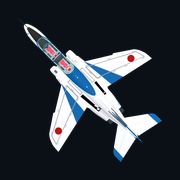
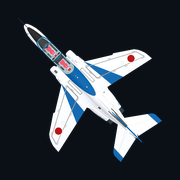
図版を高解像度で再描画: 両面描画＋法線再計算で尾翼の欠けと黒い陰影を解消、減色をやめ WebP で保存

diff --git a/engine.js b/engine.js
@@ -265,7 +265,7 @@ ${body}<rect x="0.5" y="0.5" width="359" height="249" fill="none" stroke="var(--
     return `<svg viewBox="0 0 200 200" width="100%" style="aspect-ratio:1;display:block" role="img" aria-label="上面図">
 <circle cx="100" cy="100" r="96" fill="var(--bezel)"/><circle cx="100" cy="100" r="88" fill="var(--card)" stroke="var(--line2)" stroke-width="1"/>${ticks}
 <g transform="rotate(${phi} 100 100)"><polygon points="100,13 94,27 106,27" fill="var(--accent)"/><text x="100" y="42" text-anchor="middle" font-family="var(--mono)" font-size="14" font-weight="700" fill="var(--accent)">N</text></g>
-<image href="img/t4-top.png" x="28" y="28" width="144" height="144" preserveAspectRatio="xMidYMid meet" transform="rotate(${theta} 100 100)"/></svg>`;
+<image href="img/t4-top.webp" x="28" y="28" width="144" height="144" preserveAspectRatio="xMidYMid meet" transform="rotate(${theta} 100 100)"/></svg>`;
   }
   function figAttitude(bank, pitch, front, sideRight) {
     /* バンク: 後方図は時計回り = 右バンク。前方図は左右が逆に見えるので符号反転。
@@ -281,7 +281,7 @@ ${[112, 128, 150, 178].map((y, i) => `<line x1="0" x2="200" y1="${y}" y2="${y}" 
 
   /* 14 方向の絵（南からの固定視点）と読み方の凡例 */
   function figDir14(d) {
-    return `<div class="d14"><img src="img/bi-${d.id}.png" alt="第三者視点（南から）" style="width:100%;height:auto;display:block">
+    return `<div class="d14"><img src="img/bi-${d.id}.webp" alt="第三者視点（南から）" style="width:100%;height:auto;display:block">
 <svg class="d14legend" viewBox="0 0 76 54" aria-hidden="true"><g stroke="currentColor" stroke-width="1.6" fill="none" stroke-linecap="round" stroke-linejoin="round"><path d="M18 44V14M13 19l5-5 5 5"/><path d="M18 44h36M49 39l5 5-5 5"/><path d="M18 44l14-11M27 33l5-0 0 5"/></g>
 <g font-family="var(--mono)" font-size="10" font-weight="700" fill="currentColor"><text x="18" y="10" text-anchor="middle">上</text><text x="58" y="48">東</text><text x="36" y="30">北</text></g></svg></div>`;
   }

diff --git a/dev/render/render.html b/dev/render/render.html
@@ -45,7 +45,9 @@ let meshes = 0, textured = 0;
 obj.traverse(o => { if (o.isMesh) { meshes++; const ms = Array.isArray(o.material) ? o.material : [o.material]; ms.forEach(m => {
   if (m.map) { textured++; m.color.setRGB(1, 1, 1); if (m.map.colorSpace !== undefined) m.map.colorSpace = THREE.SRGBColorSpace; }
   if (m.emissive) m.emissive.setRGB(0, 0, 0); if (m.specular) m.specular.setRGB(.05, .05, .05); m.shininess = 8;
-  m.side = P.get('side') === 'double' ? THREE.DoubleSide : THREE.FrontSide; m.needsUpdate = true; }); } });
+  m.side = P.get('side') === 'front' ? THREE.FrontSide : THREE.DoubleSide; m.needsUpdate = true; }); } });
+/* 法線を形状から計算し直す（元データの法線が内向きの面が黒く描かれるのを防ぐ）。?fixnormals=0 で無効 */
+if (P.get('fixnormals') !== '0') obj.traverse(o => { if (o.isMesh && o.geometry) { o.geometry.deleteAttribute('normal'); o.geometry.computeVertexNormals(); } });
 const box = new THREE.Box3().setFromObject(obj); const size = box.getSize(new THREE.Vector3()); const ctr = box.getCenter(new THREE.Vector3());
 const names = []; obj.traverse(o => { if (o.isMesh) names.push(o.name + '[' + (Array.isArray(o.material) ? o.material.map(m => m.name).join('|') : o.material.name) + ']'); });
 log(`meshes ${meshes} textured ${textured} size ${size.x.toFixed(1)} ${size.y.toFixed(1)} ${size.z.toFixed(1)}\n` + names.join('\n'));

diff --git a/sw.js b/sw.js
@@ -1,8 +1,8 @@
 /* オフライン対応サービスワーカー。ファイルを更新したら CACHE の版数を上げる。 */
-const CACHE = 'aat-v9';
+const CACHE = 'aat-v10';
 const ASSETS = ['./', './index.html', './engine.js', './manifest.webmanifest',
-  './icons/icon-192.png', './icons/icon-512.png', './icons/apple-touch-icon.png', './icons/favicon-64.png', './img/t4-top.png',
-  ...['north', 'south', 'east', 'west', 'up', 'down', 'ne_up', 'nw_up', 'se_up', 'sw_up', 'ne_down', 'nw_down', 'se_down', 'sw_down'].map(n => `./img/bi-${n}.png`)];
+  './icons/icon-192.png', './icons/icon-512.png', './icons/apple-touch-icon.png', './icons/favicon-64.png', './img/t4-top.webp',
+  ...['north', 'south', 'east', 'west', 'up', 'down', 'ne_up', 'nw_up', 'se_up', 'sw_up', 'ne_down', 'nw_down', 'se_down', 'sw_down'].map(n => `./img/bi-${n}.webp`)];
 
 self.addEventListener('install', e => {
   e.waitUntil(caches.open(CACHE).then(c => c.addAll(ASSETS)).then(() => self.skipWaiting()));

diff --git a/dev/tools/postprocess_bi14.py b/dev/tools/postprocess_bi14.py
@@ -1,12 +1,54 @@
-# 描画した 14 枚を共通の枠で切り出し、縮尺を揃えて 256 色に減色する
-from PIL import Image
-names=['north','south','east','west','up','down','ne_up','nw_up','se_up','sw_up','ne_down','nw_down','se_down','sw_down']
-ims={n:Image.open(f'app/img/bi-{n}.png').convert('RGBA') for n in names}
-bb=None
+# 描画した 14 方向・上面図・アイコン元画像を仕上げる。
+# - 14 方向: 共通の枠で切り出して縮尺を揃え、余白 40px、WebP（品質 92・透明あり）で保存
+# - 上面図: 正方形に切り出して WebP で保存
+# - アイコン: 暗い地に載せて 512/192/180/64 の PNG
+import os, sys
+from PIL import Image, ImageDraw
+ROOT = os.path.dirname(os.path.dirname(os.path.abspath(__file__)))
+IMG = os.path.join(ROOT, 'app', 'img'); ICO = os.path.join(ROOT, 'app', 'icons'); PKG = os.path.join(ROOT, 'package')
+os.makedirs(PKG, exist_ok=True)
+names = ['north','south','east','west','up','down','ne_up','nw_up','se_up','sw_up','ne_down','nw_down','se_down','sw_down']
+Q = 92; PAD = 40
+
+# --- 14 方向 ---
+ims = {n: Image.open(os.path.join(IMG, f'bi-{n}.png')).convert('RGBA') for n in names}
+bb = None
 for im in ims.values():
-    b=im.getbbox(); bb=b if bb is None else (min(bb[0],b[0]),min(bb[1],b[1]),max(bb[2],b[2]),max(bb[3],b[3]))
-pad=24; W,H=next(iter(ims.values())).size
-box=(max(0,bb[0]-pad),max(0,bb[1]-pad),min(W,bb[2]+pad),min(H,bb[3]+pad))
-for n,im in ims.items():
-    im.crop(box).quantize(colors=256,method=Image.Quantize.FASTOCTREE,dither=Image.Dither.FLOYDSTEINBERG).save(f'app/img/bi-{n}.png',optimize=True)
-print('done',box)
+    b = im.getbbox(); bb = b if bb is None else (min(bb[0], b[0]), min(bb[1], b[1]), max(bb[2], b[2]), max(bb[3], b[3]))
+W, H = next(iter(ims.values())).size
+box = (max(0, bb[0] - PAD), max(0, bb[1] - PAD), min(W, bb[2] + PAD), min(H, bb[3] + PAD))
+for n, im in ims.items():
+    im.crop(box).save(os.path.join(IMG, f'bi-{n}.webp'), 'WEBP', quality=Q, method=6)
+    os.remove(os.path.join(IMG, f'bi-{n}.png'))
+print('dirs', box)
+
+# --- 上面図 ---
+top_src = os.path.join(IMG, 'bi-top.png')
+if os.path.exists(top_src):
+    src = Image.open(top_src).convert('RGBA'); b = src.getbbox(); jet = src.crop(b)
+    S = max(jet.size) + 2 * PAD; im = Image.new('RGBA', (S, S), (0, 0, 0, 0)); im.paste(jet, ((S - jet.width) // 2, (S - jet.height) // 2), jet)
+    im.save(os.path.join(IMG, 't4-top.webp'), 'WEBP', quality=Q, method=6)
+    os.replace(top_src, os.path.join(PKG, 'top-src.png')); print('top', im.size)
+
+# --- アイコン ---
+icon_src = os.path.join(IMG, 'bi-icon-src.png')
+if os.path.exists(icon_src):
+    src = Image.open(icon_src).convert('RGBA'); b = src.getbbox(); jet = src.crop(b)
+    def make(size, margin, bg, path):
+        im = Image.new('RGBA', (size, size), bg); inner = int(size * (1 - 2 * margin)); j = jet.copy(); j.thumbnail((inner, inner), Image.LANCZOS)
+        im.paste(j, ((size - j.width) // 2, (size - j.height) // 2), j); im.convert('RGB').save(path, optimize=True)
+    BG = (11, 16, 23, 255)
+    make(512, 0.12, BG, os.path.join(ICO, 'icon-512.png')); make(192, 0.12, BG, os.path.join(ICO, 'icon-192.png'))
+    make(180, 0.10, BG, os.path.join(ICO, 'apple-touch-icon.png')); make(64, 0.06, BG, os.path.join(ICO, 'favicon-64.png'))
+    Image.open(os.path.join(ICO, 'icon-512.png')).save(os.path.join(PKG, 'icon-preview.png'))
+    os.replace(icon_src, os.path.join(PKG, 'icon-src.png')); print('icons ok')
+
+# --- 一覧 ---
+ims = [Image.open(os.path.join(IMG, f'bi-{n}.webp')).convert('RGBA') for n in names]; cell = ims[0].size
+sheet = Image.new('RGB', (cell[0] * 4, cell[1] * 4), (205, 211, 218)); d = ImageDraw.Draw(sheet)
+for i, (n, im) in enumerate(zip(names, ims)):
+    x = (i % 4) * cell[0]; y = (i // 4) * cell[1]; sheet.paste(im, (x, y), im); d.text((x + 8, y + 6), n, fill=(200, 80, 0))
+tp = os.path.join(IMG, 't4-top.webp')
+if os.path.exists(tp):
+    top = Image.open(tp).convert('RGBA'); top.thumbnail((cell[0] - 40, cell[1] - 40)); sheet.paste(top, (cell[0] * 2 + 20, cell[1] * 3 + 20), top); d.text((cell[0] * 2 + 26, cell[1] * 3 + 24), 't4-top', fill=(200, 80, 0))
+sheet.thumbnail((2000, 2000)); sheet.save(os.path.join(PKG, 'bi14-contact.png')); print('sheet ok', cell)
